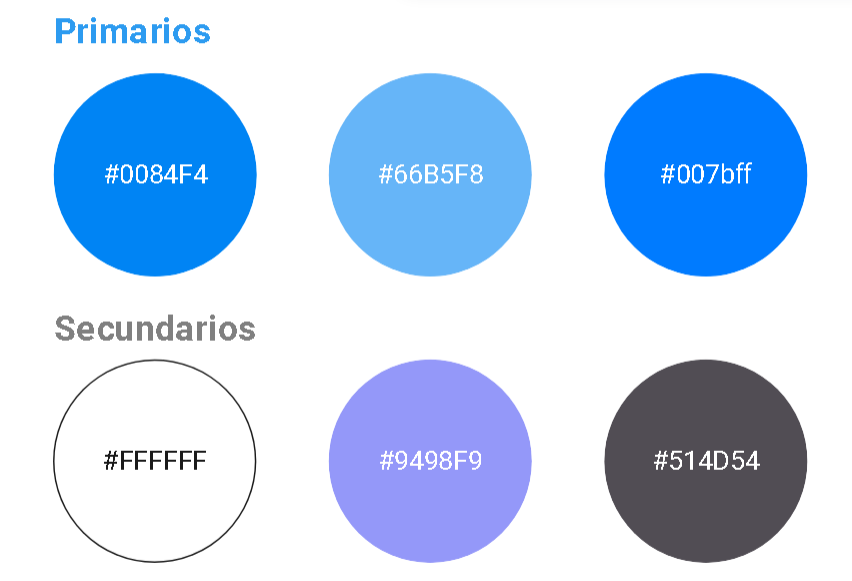
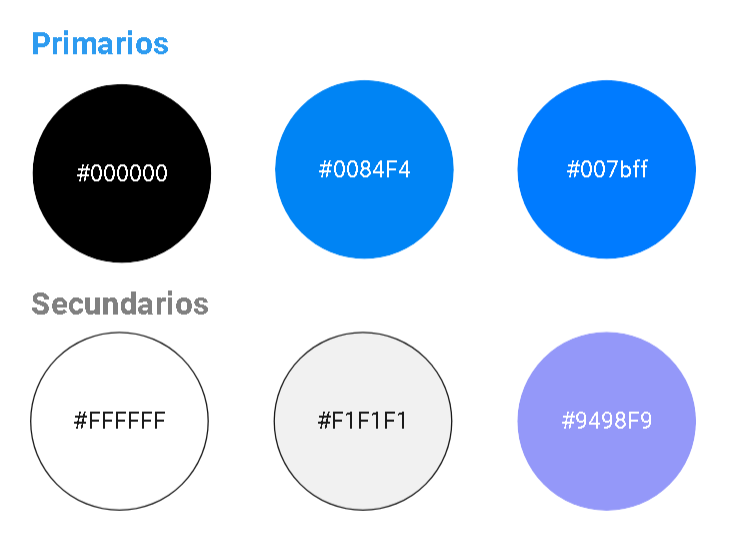
feat(chapter03): updated style guidelines

diff --git a/chapter03.md b/chapter03.md
@@ -20,11 +20,13 @@ La tipografía influye directamente en cómo los usuarios interpretan el conteni
 
 - Colores:
 
-La eleccion de los colores para nuestra plataforma es fundamental, ya que tienen un gran impacto en la coherencia visual del diseño. Además, los colores transmiten emociones y mensaje específicos, por lo que ingluten en la atraccion visual de nuestro producto.
+La eleccion de los colores para nuestra plataforma es fundamental, ya que tienen un gran impacto en la coherencia visual del diseño. Además, los colores transmiten emociones y mensajes específicos, por lo que ingluten en la atraccion visual de nuestro producto.
 
-En "SafeDrive", el color azul se ha seleccionado como color principal, pues es sinónimo de confianza, tecnología y seguridad, siendo estos, atributos clave para la aplicación. El blanco es importante dentro de la paleta, su uso aporta claridad y limpieza al diseño, además de evocar simplicidad y pureza, lo que complementa con la eleccion del color azul. El color lila lo usamos como degradado con el azul, este tono refleja creatividad y calma, añadiendo originalidad al diseño.
+En "SafeDrive", el color azul se ha seleccionado como color principal, pues es sinónimo de confianza, tecnología y seguridad, siendo estos, atributos clave para la aplicación. El negro representa elegancia, solidez y sofisticación, es un color atemporal que trasmite autoridad y modernidad, lo que ayuda a establecer una sensación de confianza y profesionalismo en la aplicación. 
 
-La eleccion de estos colores permiten un diseño coherente, atractivo y accesible que mejora la experiencia del usuario y comunica de manera efectiva los valores que "SafeDrive" transmite.
+El blanco es importante dentro de la paleta, su uso aporta claridad y limpieza al diseño, además de evocar simplicidad y pureza, lo que complementa con la eleccion del color azul y negro ayudando a equilibrar el uso de estos. El tono de gris claro se emplea para agregar matices sutiles en fondos, al no ser intrusivo, mantiene el enfoque en los colores primarios ayudando a suavizar el diseño. El color lila claro lo usamos como degradado con el azul, introduce un tono de calma y profundidad, que refleja la energía y la creatividad de la aplicación.
+
+La eleccion de estos colores logra un equilibrio visual que comunica profesionalismo, confianza y modernidad. El contraste entre el negro, los tonos de azul y el blanco permite una experiencia de usuario clara y funcional, mientras que el gris claro y el lila claro añaden sofisticación y creatividad al diseño, asegurando que nuestra plataforma sea atractiva y atractivo.
 
 ![Colors](assets/colors.png)
 
@@ -36,17 +38,17 @@ La eleccion de estos colores permiten un diseño coherente, atractivo y accesibl
 
 El propósito del sistema de organización de la página es establecer la estructura visual del contenido y la navegación en la misma. 
 
-Para nuestra landing page ,destacamos secciones importantes en la barra de navegación, estos son: "Home", Ubicación", "Ofrecemos", "Beneficios", "Nosotros" y "Contacto". 
+Para nuestra landing page, destacamos secciones importantes en la barra de navegación, estos son: "Inicio", "Nosotros", "Servicios", "Beneficios" y "Contacto".
 
 * Página principal: La parte superior de la página presenta una sección principal destacada por una breve descripción de la plataforma, en la que se destaca su objetivo principal de garantizar la seguridad de los vehículos desde cualquier lugar.
 
-* Ofrecemos: Esta sección muestra las características que ofrece SafeDrive.
+* Nosotros: En esta sección se presentan los antecedentes de la empresa y su misión. El texto describe SafeDrive como una startup peruana centrada en reducir el robo de vehículos y ayudar a los conductores principiantes.
+
+* Servicios: Esta sección muestra las características que ofrece SafeDrive.
 Contiene tres elementos: un dispositivo de seguimiento, asistencia para principiantes y avisos de caducidad, cada uno de ellos acompañado de un icono y un botón "Más" para obtener más detalles.
 
 * Beneficios: La sección de beneficios destaca las ventajas de utilizar las funciones de SafeDrive, como las alertas de robo, el mantenimiento de los documentos en orden y los consejos de conducción.
 Cada ventaja se presenta en recuadros individuales con imágenes relacionadas y descripciones concisas, lo que facilita a los usuarios la comprensión del valor del servicio.
-
-* Nosotros: En esta sección se presentan los antecedentes de la empresa y su misión. El texto describe SafeDrive como una startup peruana centrada en reducir el robo de vehículos y ayudar a los conductores principiantes.
 
 * Contacto: Esta sección presenta un sencillo formulario de contacto con campos para correo electrónico, número de teléfono y nombre, que permite a los usuarios ponerse en contacto.
 
@@ -56,7 +58,7 @@ Cada ventaja se presenta en recuadros individuales con imágenes relacionadas y 
 <br>
 
 1. Secciones:
-* "Home": Pagina principal.
+* "Inicio": Pagina principal.
 * "Nosotros": Mencionamos nuestro objetivo como startup a los usuarios.
 * "Servicios": Funcionalidades disponibles del servicio.
 * "Beneficios": Ventajas de las caracteristicas dadas anteriormente.
@@ -86,18 +88,18 @@ Cada ventaja se presenta en recuadros individuales con imágenes relacionadas y 
 <td>El motor de búsqueda es fundamental para que los usuarios encuentren rápidamente detalles específicos</td>
 <br><br>
 
-1. Navbar: En la parte superior de la página se encuentra una barra que incluye enlaces a las secciones principales del sitio. Los enlaces principales son: "Home", "Nosotros", "Servicios", "Beneficios" y "Contacto".
+1. Navbar: En la parte superior de la página se encuentra una barra que incluye enlaces a las secciones principales del sitio. Los enlaces principales son: "Inicio", "Nosotros", "Servicios", "Beneficios" y "Contacto".
 
 ### 3.1.2.5 Navigation Systems.
 <td>El Sistema de Navegación es la estructura que permite a los usuarios desplazarse eficientemente entre las distintas secciones y páginas de la aplicación</td>
 <br><br>
 
 
-1. Navegación jerárquica: La página principal sigue un patrón de diseño F, lo que enfatiza la importancia de que el usuario conozca la empresa y lo que ofrece. Las opciones de navegación están jerárquicamente organizadas, con las secciones más importantes y relevantes en la parte superior.
+1. **Navegación jerárquica:** La página principal sigue un patrón de diseño F, lo que enfatiza la importancia de que el usuario conozca la empresa y lo que ofrece. Las opciones de navegación están jerárquicamente organizadas, con las secciones más importantes y relevantes en la parte superior.
 
-2. Boton de llamada a la accion: Un boton flotante que siempre está visible y permite a los usuarios acceder a Registrarse e Iniciar sesion.
+2. **Boton de llamada a la accion:** Un boton flotante que siempre está visible y permite a los usuarios acceder a Registrarse e Iniciar sesion.
 
-3. Sección inferior: En la parte inferior de la página, se incluye una navegación adicional que proporciona acceso rápido a información importante y complementaria, como "Contáctanos".
+3. **Sección inferior:** En la parte inferior de la página, se incluye una navegación adicional que proporciona acceso rápido a información importante y complementaria, como "Contáctanos" y un footer con más información sobre la empresa.
 
 ## 3.1.3. Landing Page UI Design. 
 El diseño de la interfaz de usuario para nuestra landing page será crucial para nuestro proyecto, ya que es la primera impresión que tendrán los usuarios de nuestro producto. Nos permitirá crear una experiencia visualmente atractiva y funcional que capture la atención de los visitantes y los motive a explorar más.
